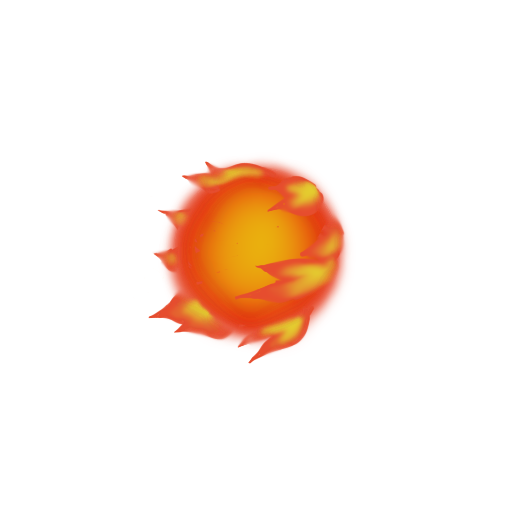
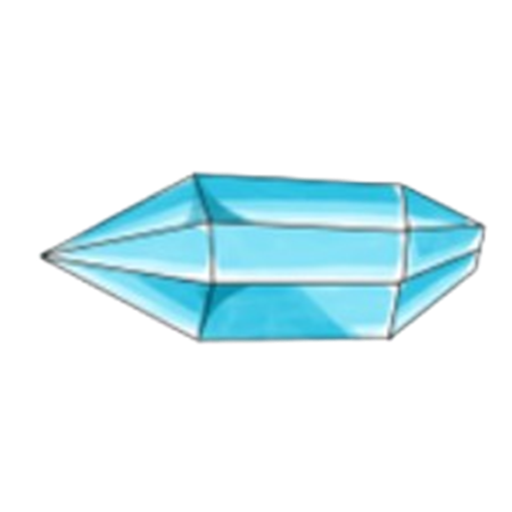
add: ice spell

Changed region(s): [[0.0625, 0.3125, 0.9688, 0.7188]]

diff --git a/client/classes/spell.py b/client/classes/spell.py
@@ -75,28 +75,30 @@ class Spell(Serializable):
         # pour savoir a qui ne pas infliger de degat
         self.thrower = thrower
 
-        # pour les animations
-        self.animator = Animator(
-            size=(self.radius * 5, self.radius * 5), animation_speed=10 / 60
-        )
-        # 0 si l'asset de base regarde a droite, 180 s'il regarde a gauche
-        self.sprite_base_angle = 180
-
         self.spell_type = None
         match color:
             case (255, 0, 0):
                 self.spell_type = SpellList.FIREBALL
             case (200, 200, 200):
                 self.spell_type = SpellList.PUNCH
-            case _:
+            case (0, 0, 255):
                 self.spell_type = SpellList.ICE
+            case _:
+                self.spell_type = SpellList.BASIC
 
-        # Chemin vers la racine du projet
-        PROJECT_ROOT = os.path.abspath(
-            os.path.join(os.path.dirname(__file__), "..", "..")
-        )
-
-        if self.spell_type != SpellList.PUNCH:
+        # pour les animations
+        # si l'anim existe
+        self.animator = None
+        if self.spell_type in [SpellList.FIREBALL, SpellList.ICE]:
+            # 0 si l'asset de base regarde a droite, 180 s'il regarde a gauche
+            self.sprite_base_angle = 180
+            # Chemin vers la racine du projet
+            PROJECT_ROOT = os.path.abspath(
+                os.path.join(os.path.dirname(__file__), "..", "..")
+            )
+            self.animator = Animator(
+                size=(self.radius * 5, self.radius * 5), animation_speed=10 / 60
+            )
             self.animator.state_manager.add_state(
                 "idle",
                 os.path.join(
@@ -152,26 +154,28 @@ class Spell(Serializable):
         # Permet d'eviter les mouvements sacadé
         self.interpolate_position()
 
-        # pygame.draw.circle(
-        #     surface,
-        #     self.color,
-        #     (int(self.display_x + offset[0]), int(self.display_y + offset[1])),
-        #     self.radius,
-        # )
-        pos = (self.display_x + offset[0], self.display_y + offset[1])
-
-        sprite = self.animator.state_manager.get_current_sprite()
-        if sprite is not None:
-            # pour tourner le spirte dans la direction ou il se dirige
-            angle = (
-                -math.degrees(math.atan2(self.dir[1], self.dir[0]))
-                + self.sprite_base_angle
+        if not self.animator:
+            pygame.draw.circle(
+                surface,
+                self.color,
+                (int(self.display_x + offset[0]), int(self.display_y + offset[1])),
+                self.radius,
             )
-            rotated_sprite = pygame.transform.rotate(sprite, angle)
-            rect = rotated_sprite.get_rect(center=pos)
-            surface.blit(rotated_sprite, rect)
         else:
-            self.animator.blit_sprite(surface, pos)
+            pos = (self.display_x + offset[0], self.display_y + offset[1])
+
+            sprite = self.animator.state_manager.get_current_sprite()
+            if sprite is not None:
+                # pour tourner le spirte dans la direction ou il se dirige
+                angle = (
+                    -math.degrees(math.atan2(self.dir[1], self.dir[0]))
+                    + self.sprite_base_angle
+                )
+                rotated_sprite = pygame.transform.rotate(sprite, angle)
+                rect = rotated_sprite.get_rect(center=pos)
+                surface.blit(rotated_sprite, rect)
+            else:
+                self.animator.blit_sprite(surface, pos)
 
         self.hitbox.draw(surface, offset)
 
@@ -202,6 +206,8 @@ class Spell(Serializable):
         match spell_type:
             case SpellList.FIREBALL:
                 return Spell(radius=10, color=(255, 0, 0), **keyargs)
+            case SpellList.ICE:
+                return Spell(radius=15, color=(0, 0, 255), **keyargs)
             case SpellList.PUNCH:
                 return Spell(
                     radius=15, color=(200, 200, 200), speed=5, lifetime=0.1, **keyargs
